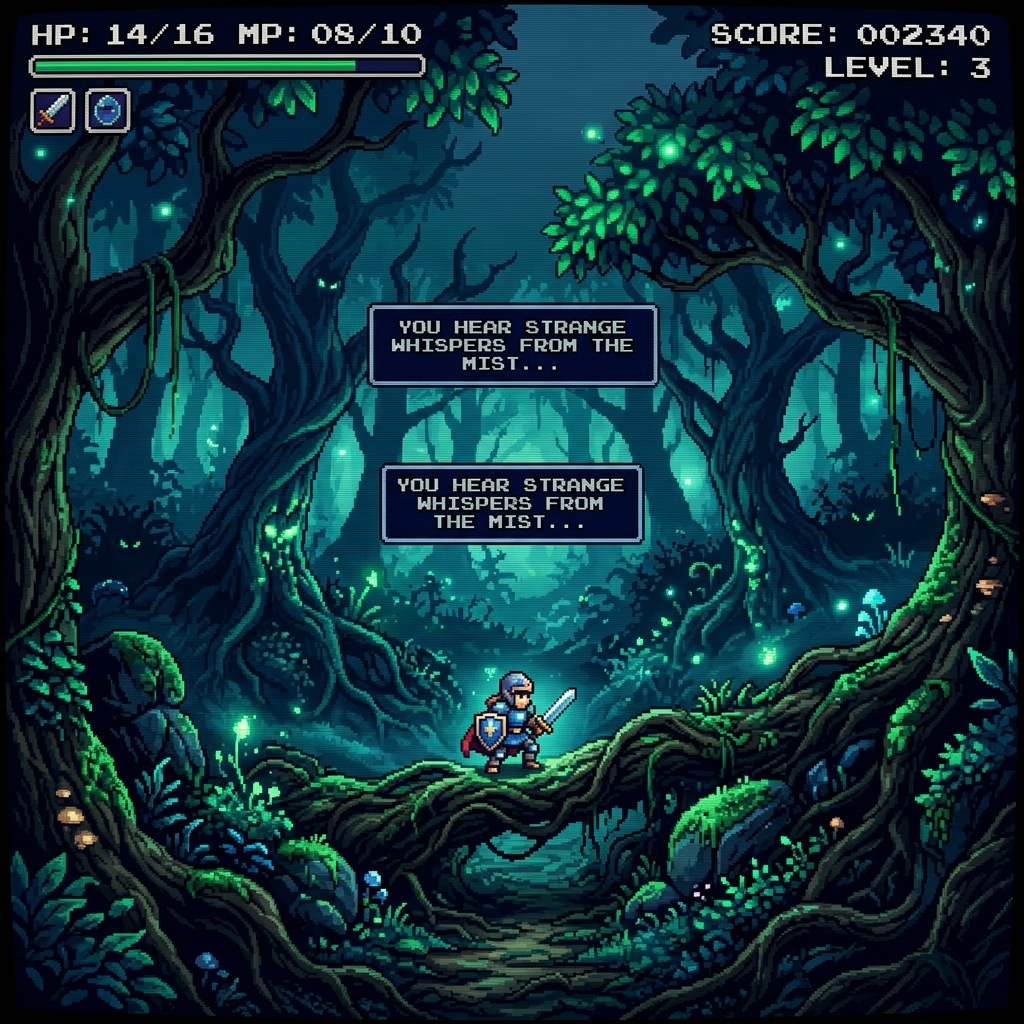
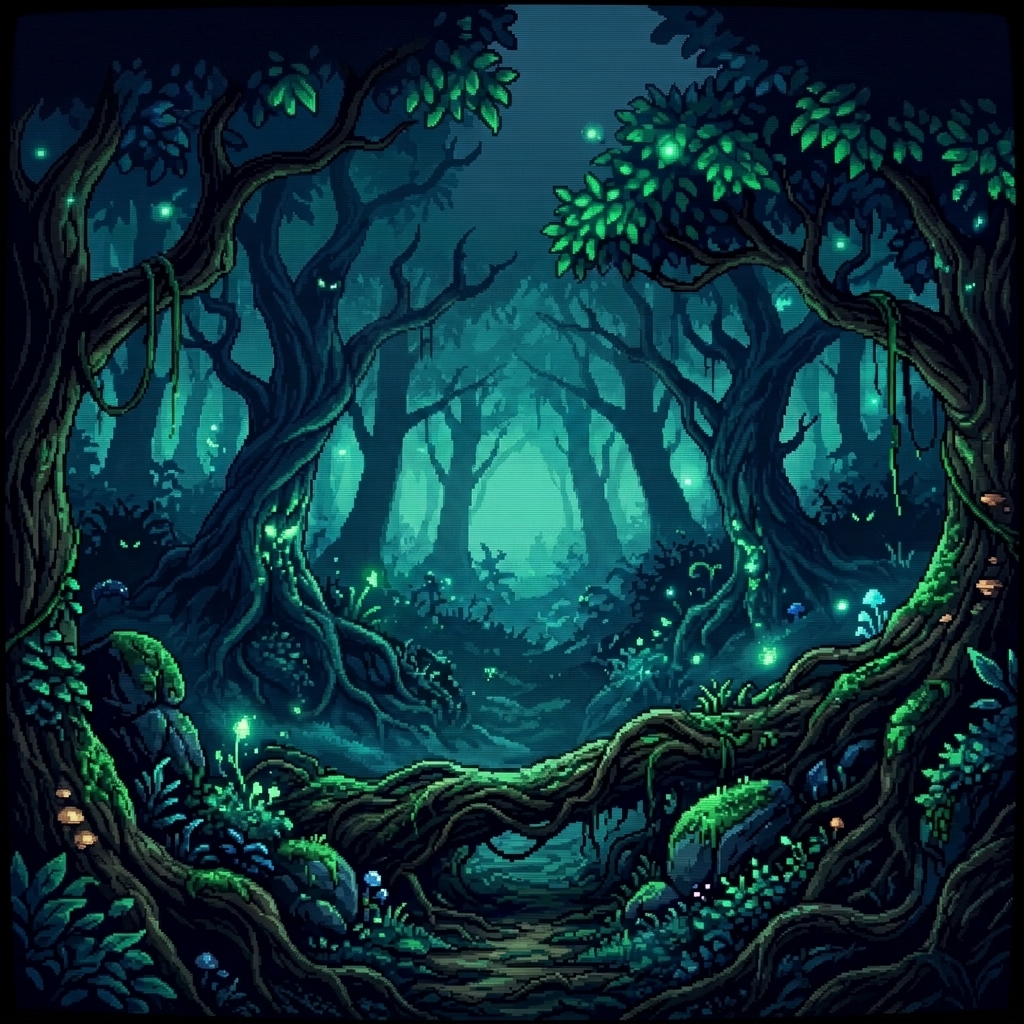
Add custom pixel art assets, voice narration intro, and level/tavern balancing fixes

diff --git a/app.js b/app.js
@@ -177,6 +177,61 @@ class SoundEffects {
 
 const sfx = new SoundEffects();
 
+// --- Web Speech API Voice Narrator (Gandalf / Ian McKellen Style) ---
+class VoiceNarrator {
+    constructor() {
+        this.synth = window.speechSynthesis || null;
+        this.enabled = true;
+        this.selectedVoice = null;
+        this.initVoices();
+    }
+
+    initVoices() {
+        if (!this.synth) return;
+        const loadVoices = () => {
+            const voices = this.synth.getVoices();
+            if (!voices || voices.length === 0) return;
+            // Prefer deep English male voices (e.g. Google UK English Male, Daniel, George, Microsoft David/Mark)
+            this.selectedVoice = voices.find(v => v.lang.startsWith('en') && (
+                v.name.includes('Male') || v.name.includes('David') || v.name.includes('Daniel') || v.name.includes('George') || v.name.includes('Ian') || v.name.includes('UK')
+            )) || voices.find(v => v.lang.startsWith('en')) || voices[0];
+        };
+
+        loadVoices();
+        if (this.synth.onvoiceschanged !== undefined) {
+            this.synth.onvoiceschanged = loadVoices;
+        }
+    }
+
+    speak(text) {
+        if (!this.enabled || !this.synth) return;
+        this.stop();
+
+        const cleanText = text.replace(/[\u{1F600}-\u{1F64F}\u{1F300}-\u{1F5FF}\u{1F680}-\u{1F6FF}\u{2600}-\u{26FF}\u{2700}-\u{27BF}]/gu, '');
+        const utterance = new SpeechSynthesisUtterance(cleanText);
+        if (this.selectedVoice) {
+            utterance.voice = this.selectedVoice;
+        }
+        utterance.pitch = 0.72; // Deep voice pitch
+        utterance.rate = 0.83;  // Slower, majestic cadence
+        utterance.volume = 1.0;
+
+        try {
+            this.synth.speak(utterance);
+        } catch (e) {
+            console.warn("SpeechSynthesis error:", e);
+        }
+    }
+
+    stop() {
+        if (this.synth && (this.synth.speaking || this.synth.pending)) {
+            this.synth.cancel();
+        }
+    }
+}
+
+const narrator = new VoiceNarrator();
+
 // --- Game State ---
 const state = {
     name: "Sir Eldrin",
@@ -242,8 +297,11 @@ const sceneImages = {
     temple: "assets/images/sunblade.png",
     mountain: "assets/images/mountain.png",
     lair: "assets/images/dragon.png",
-    watchtower: "assets/images/mountain.png", // placeholder art, no dedicated asset yet
-    blacksmith: "assets/images/village.png", // placeholder art, no dedicated asset yet
+    watchtower: "assets/images/watchtower.png",
+    blacksmith: "assets/images/blacksmith.png",
+    wilderness: "assets/images/wilderness.png",
+    troll: "assets/images/troll.png",
+    cave: "assets/images/troll.png",
     victory: "assets/images/dragon.png" // fallback high resolution scene
 };
 
@@ -333,7 +391,7 @@ function renderVillage() {
         { text: "1. Speak to Wise Elder by fountain", action: speakToElder },
         { text: "2. Enter Whispering Forest (West)", action: goForest },
         { text: "3. Venture to Rocky Mountains (East)", action: goMountain },
-        { text: "4. Rest at Tavern (+20 HP)", action: restTavern },
+        { text: "4. Rest at Tavern (Full Rest)", action: restTavern },
         { text: "5. Visit the Blacksmith", action: goBlacksmith },
         { text: "6. Venture into the Wilderness Trail (repeatable)", action: goWilderness }
     ]);
@@ -383,6 +441,7 @@ function speakToElder() {
     sfx.playClick();
     addLog("Elder: 'Brave adventurer! The Sunblade lies hidden inside the Sunken Temple across the Whispering Forest.'");
     addLog("Elder: 'Take this Silver Key. It unlocks the inner sanctum!'");
+    narrator.speak("Brave adventurer! The Sunblade lies hidden inside the Sunken Temple across the Whispering Forest. Take this Silver Key. It unlocks the inner sanctum!");
 
     if (!state.inventory.includes("Silver Key")) {
         state.inventory.push("Silver Key");
@@ -396,8 +455,10 @@ function speakToElder() {
 function restTavern() {
     sfx.playClick();
     if (state.hp < state.maxHp) {
-        addLog("You rest at the tavern and eat a warm meal.");
-        healPlayer(20);
+        state.hp = state.maxHp;
+        addLog("🍺 You enjoy a warm meal and a full night's rest at the tavern. Health fully restored!", "event");
+        sfx.playHeal();
+        updateHUD();
     } else {
         addLog("Your health is already full!");
     }
@@ -652,7 +713,7 @@ function searchCave() {
 
 function renderMountainCave() {
     state.location = "cave";
-    setScene("mountain", "🕳 MOUNTAIN CAVE");
+    setScene("troll", "🕳 MOUNTAIN CAVE");
     clearLog();
     addLog("A Cave Troll blocks the entrance, guarding a chest of glittering treasure!", "alert");
 
@@ -747,7 +808,7 @@ function goWilderness() {
         reward: 60 + levelBonus * 8,
     };
 
-    setScene("forest", "🌾 WILDERNESS TRAIL");
+    setScene("wilderness", "🌾 WILDERNESS TRAIL");
     sfx.playMusic("battle");
     clearLog();
     addLog(`A ${state.wilderness.name} emerges from the tall grass, ready to fight!`, "alert");
@@ -779,7 +840,10 @@ function attackWilderness() {
     if (w.hp <= 0) {
         addLog(`🎉 You defeated the ${w.name}!`, "victory");
         addScore(w.reward);
-        renderChoices([{ text: "Continue on the Trail", action: renderVillage }]);
+        renderChoices([
+            { text: "1. Continue deeper on the Trail", action: goWilderness },
+            { text: "2. Return to Village Square", action: renderVillage }
+        ]);
         return;
     }
 
@@ -789,7 +853,11 @@ function attackWilderness() {
     updateHUD();
 
     if (state.hp <= 0) {
-        gameOver(`You were slain by a ${w.name} on the Wilderness Trail.`);
+        addLog(`💥 You were knocked unconscious by the ${w.name}!`, "alert");
+        addLog("🏥 Kind townspeople found you on the trail and brought you back to Oakhaven Village to recover.", "event");
+        state.hp = Math.max(10, Math.floor(state.maxHp * 0.25));
+        updateHUD();
+        renderChoices([{ text: "Recover in Village Square", action: renderVillage }]);
         return;
     }
 
@@ -815,6 +883,7 @@ function battleDragon() {
     clearLog();
     addLog("Molten lava streams down cavern walls. Atop a mountain of gold lies Princess Aurelia in chains!", "alert");
     addLog("Mighty Red Dragon Ignis awakens with a terrifying roar!", "alert");
+    narrator.speak("Peak Doom! Molten lava streams down dark cavern walls. Atop a mountain of gold lies Princess Aurelia in chains! Mighty Red Dragon Ignis awakens with a terrifying roar!");
 
     if (!state.hasSword) {
         addLog("⚠ WARNING: You do not possess the Sunblade! Your weapons cannot penetrate Ignis's scales!", "alert");
@@ -948,6 +1017,7 @@ function winGame() {
     addLog("           🎉 VICTORY! THE KINGDOM IS SAVED! 🎉", "victory");
     addLog("============================================================", "victory");
     addLog("You vanquished Ignis the Red Dragon, rescued Princess Aurelia, and saved Oakhaven!", "event");
+    narrator.speak("Victory! You vanquished Ignis the Red Dragon, rescued Princess Aurelia, and saved Oakhaven!");
 
     if (state.knightFreed) {
         addLog("Sir Cedric rides beside you into the Citadel, his life-debt repaid in blood and fire.", "event");
@@ -1001,14 +1071,39 @@ function renderChoices(choices) {
 
 // Event Listeners
 const musicBtnEl = document.getElementById("music-btn");
+const voiceBtnEl = document.getElementById("voice-btn");
+
+const narrateBtnEl = document.getElementById("narrate-btn");
+const introLoreCardEl = document.querySelector(".intro-lore-card");
+
+if (narrateBtnEl) {
+    narrateBtnEl.addEventListener("click", () => {
+        const heroName = nameInputEl.value.trim() || "Sir Eldrin";
+        state.name = heroName;
+        if (introLoreCardEl) introLoreCardEl.classList.add("speaking");
+        narrator.speak(`Welcome, ${heroName}! The Kingdom of Oakhaven is in shadow. The dreaded Red Dragon Ignis has captured Princess Aurelia and fled to Peak Doom. Without the Legendary Sunblade, no mortal weapon can pierce the beast's scales...`);
+    });
+}
 
 startBtnEl.addEventListener("click", () => {
     state.name = nameInputEl.value.trim() || "Sir Eldrin";
+    narrator.stop();
+    if (introLoreCardEl) introLoreCardEl.classList.remove("speaking");
     nameModalEl.classList.add("hidden");
     updateHUD();
     sfx.init();
     renderVillage();
 });
+
+if (voiceBtnEl) {
+    voiceBtnEl.addEventListener("click", () => {
+        narrator.enabled = !narrator.enabled;
+        voiceBtnEl.textContent = `🎙 VOICE: ${narrator.enabled ? "ON" : "OFF"}`;
+        if (!narrator.enabled) {
+            narrator.stop();
+        }
+    });
+}
 
 if (musicBtnEl) {
     musicBtnEl.addEventListener("click", () => {

diff --git a/index.html b/index.html
@@ -19,6 +19,7 @@
             <header class="game-header">
                 <h1 class="game-title">DRAGON'S LAIR (1984)</h1>
                 <div class="header-controls">
+                    <button id="voice-btn" class="arcade-btn-sm" title="Toggle Voice Narration">🎙 VOICE: ON</button>
                     <button id="music-btn" class="arcade-btn-sm" title="Toggle Music">🎵 MUSIC: ON</button>
                     <button id="sound-btn" class="arcade-btn-sm" title="Toggle Sound">🔊 SFX: ON</button>
                     <button id="reset-btn" class="arcade-btn-sm warning" title="Restart Game">🔄 RESTART</button>
@@ -76,16 +77,25 @@
         </div>
     </div>
 
-    <!-- Start Modal for Name Entry -->
+    <!-- Start Modal for Name Entry & Story Intro -->
     <div id="name-modal" class="modal-overlay">
-        <div class="modal-content crt-box">
-            <h2>⚔ ENTER THE REALM ⚔</h2>
-            <p>The Kingdom of Oakhaven is in shadow. Red Dragon Ignis has captured Princess Aurelia!</p>
+        <div class="modal-content crt-box intro-box">
+            <h2 class="intro-title">🐉 DRAGON'S LAIR 🐉</h2>
+            <p class="intro-subtitle">THE QUEST FOR THE PRINCESS (1984)</p>
+            
             <div class="name-input-group">
                 <label for="name-input">ENTER HERO NAME:</label>
                 <input type="text" id="name-input" maxlength="16" placeholder="Sir Eldrin" value="Sir Eldrin">
             </div>
-            <button id="start-btn" class="arcade-btn primary">START QUEST</button>
+
+            <div class="intro-lore-card">
+                <p id="intro-lore-text">📜 <em>"The Kingdom of Oakhaven is in shadow. The dreaded Red Dragon Ignis has captured Princess Aurelia and fled to Peak Doom. Without the Legendary Sunblade, no mortal weapon can pierce the beast's scales..."</em></p>
+            </div>
+
+            <div class="intro-btn-group">
+                <button id="narrate-btn" class="arcade-btn primary lg">🎙 LISTEN TO LORE</button>
+                <button id="start-btn" class="arcade-btn lg">🏰 ENTER VILLAGE</button>
+            </div>
         </div>
     </div>
 

diff --git a/style.css b/style.css
@@ -434,3 +434,59 @@ body {
     color: #12141d;
     box-shadow: 0 0 15px rgba(212, 175, 55, 0.4);
 }
+
+.intro-box {
+    max-width: 520px;
+    border-color: #d4af37;
+    box-shadow: 0 0 35px rgba(212, 175, 55, 0.25), inset 0 0 20px rgba(0, 0, 0, 0.8);
+}
+
+.intro-title {
+    color: #ffcc00;
+    text-shadow: 0 0 10px rgba(255, 204, 0, 0.5);
+    font-size: 1.2rem;
+}
+
+.intro-subtitle {
+    font-size: 0.65rem;
+    color: #00f3ff;
+    letter-spacing: 2px;
+    margin-bottom: 5px;
+}
+
+.intro-lore-card {
+    background: rgba(0, 0, 0, 0.6);
+    border: 1px dashed #3a415a;
+    border-radius: 8px;
+    padding: 14px;
+    text-align: left;
+    transition: all 0.3s ease;
+}
+
+.intro-lore-card.speaking {
+    border-color: #00f3ff;
+    box-shadow: 0 0 15px rgba(0, 243, 255, 0.3);
+    background: rgba(0, 30, 45, 0.7);
+}
+
+.intro-lore-card p {
+    font-family: 'VT323', monospace;
+    font-size: 1.35rem;
+    color: #e2e8f0;
+    line-height: 1.4;
+}
+
+.intro-btn-group {
+    display: flex;
+    gap: 12px;
+    justify-content: center;
+    margin-top: 10px;
+    flex-wrap: wrap;
+}
+
+.arcade-btn.lg {
+    font-size: 0.75rem;
+    padding: 14px 18px;
+    cursor: pointer;
+}
+

diff --git a/game.py b/game.py
@@ -110,10 +110,20 @@ def wilderness_trail(player):
             print("Invalid option!")
 
     if player.hp <= 0:
-        game_over(f"You were slain by a {enemy['name']} on the Wilderness Trail...", player)
+        slow_print(f"\n{RED}💥 You were knocked unconscious by the {enemy['name']}!{RESET}")
+        slow_print(f"{CYAN}🏥 Kind townspeople found you on the trail and brought you back to Oakhaven Village to recover.{RESET}")
+        player.hp = max(10, player.max_hp // 4)
+        input("\nPress Enter to recover in the Village Square...")
+        return
     else:
         slow_print(f"\n{GREEN}You defeated the {enemy['name']}!{RESET}")
         player.add_score(reward)
+        print("\nWhat do you do next?")
+        print("1. Continue deeper on the Wilderness Trail")
+        print("2. Return to the Village Square")
+        nc = input("Choice (1-2): ").strip()
+        if nc == "1":
+            wilderness_trail(player)
 
 class Player:
     def __init__(self):
@@ -218,7 +228,7 @@ def village_square(player):
     print("1. Speak to the Wise Elder by the fountain")
     print("2. Enter the Whispering Forest (To the West)")
     print("3. Venture towards the Rocky Mountains (To the East)")
-    print("4. Rest at the Tavern (+20 HP)")
+    print("4. Rest at the Tavern (Full Rest)")
     print("5. Visit the Blacksmith")
     print("6. Venture into the Wilderness Trail (repeatable)")
 
@@ -238,8 +248,8 @@ def village_square(player):
         mountain_pass(player)
     elif choice == "4":
         if player.hp < player.max_hp:
-            slow_print("\nYou rest at the tavern and eat a warm meal.")
-            player.heal(20)
+            player.hp = player.max_hp
+            slow_print(f"\n{GREEN}🍺 You enjoy a warm meal and a full night's rest at the tavern. Health fully restored! ({player.hp}/{player.max_hp} HP){RESET}")
         else:
             slow_print("\nYour health is already full!")
     elif choice == "5":
